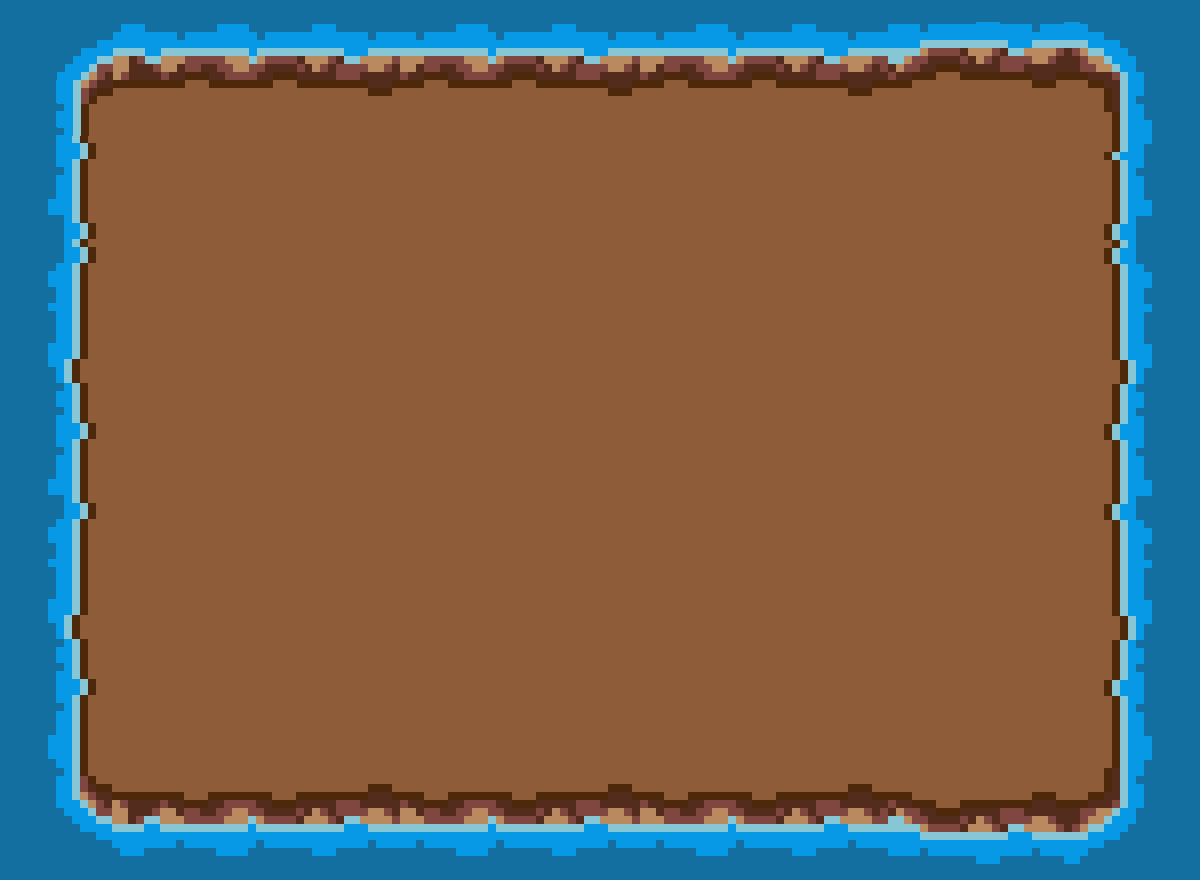
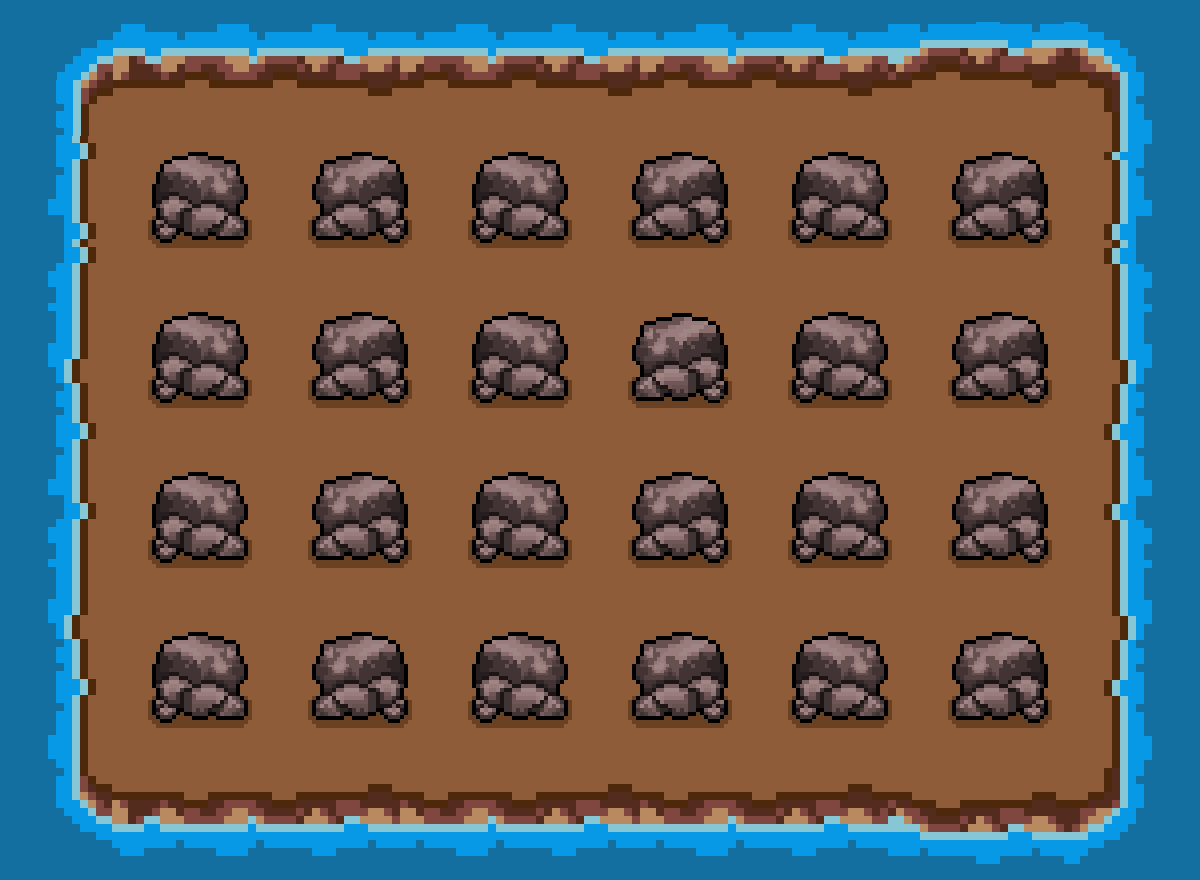
feat: switching maps based on sum(life)%3

diff --git a/client.py b/client.py
@@ -7,7 +7,6 @@ import copy
 
 from settings import *
 
-
 async def main():
     # Initialize Pygame
     pygame.init()
@@ -16,10 +15,16 @@ async def main():
     screen = pygame.display.set_mode((SCREEN_WIDTH, SCREEN_HEIGHT))
     pygame.display.set_caption("Overblocked")
 
-    # Load background image
-    global background_image
-    background_image = pygame.image.load('./assets/maps/mapa_neve_com_pedra.png').convert()
-    background_image = pygame.transform.scale(background_image, (SCREEN_WIDTH, SCREEN_HEIGHT - HUD_HEIGHT))
+
+    # Background image
+    mapa_1 = pygame.image.load('./assets/maps/mapa_neve_com_pedra.png').convert()
+    mapa_1 = pygame.transform.scale(mapa_1, (SCREEN_WIDTH, SCREEN_HEIGHT - HUD_HEIGHT))
+
+    mapa_2 = pygame.image.load('./assets/maps/mapa_verde_com_pedra.png').convert()
+    mapa_2 = pygame.transform.scale(mapa_2, (SCREEN_WIDTH, SCREEN_HEIGHT - HUD_HEIGHT))
+
+    mapa_3 = pygame.image.load('./assets/maps/mapa_marrom_com_pedra.png').convert()
+    mapa_3 = pygame.transform.scale(mapa_3, (SCREEN_WIDTH, SCREEN_HEIGHT - HUD_HEIGHT))
 
     # Connect to server
     uri = f"ws://{SERVER_URL}:{SERVER_PORT}"
@@ -106,6 +111,15 @@ async def main():
             break
 
         # Clear the screen and redraw the grid and HUD
+        match sum(game_state[0]['lives'])%3:
+            case 0:
+                background_image = mapa_1
+            case 1:
+                background_image = mapa_2
+            case 2:
+                background_image = mapa_3
+            case _:
+                background_image = mapa_1
         screen.blit(background_image, (0, HUD_HEIGHT))
 
         if game_state[0]:
